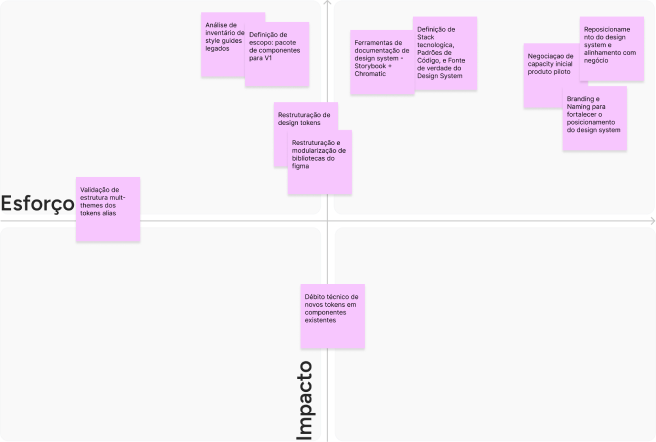
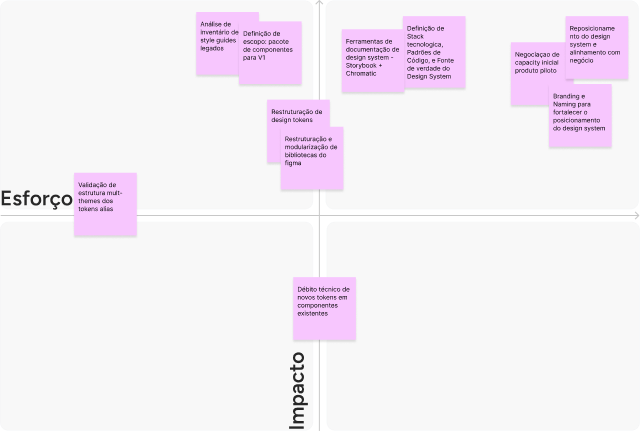
Refine Dom DS case typography and layout against Figma

diff --git a/assets/css/case.css b/assets/css/case.css
@@ -7,32 +7,32 @@ body,h1,h2,h3,p,figure,dl,dd{margin:0}
 body{font-size:1rem;line-height:1.55}
 a{color:inherit;text-underline-offset:.25em}
 a:hover{text-decoration:underline}
-a:focus-visible,button:focus-visible{outline:2px solid currentColor;outline-offset:5px}
+a:focus-visible,button:focus-visible{outline:2px solid var(--case-accent);outline-offset:5px}
 img{display:block;max-width:100%;height:auto}
 button{font:inherit}
 .container{width:100%;max-width:90rem;margin-inline:auto;padding-inline:var(--case-gutter)}
 .mono,.eyebrow,dt,.case-header,.case-footer{font-family:'Geist Mono',monospace;font-weight:500;text-transform:uppercase}
-.eyebrow{font-size:.6875rem;line-height:1.3;color:var(--case-muted);letter-spacing:.04em}
-.dark{background:var(--case-ink);color:#fff}
-.skip-link{position:fixed;z-index:10;top:1rem;left:1rem;padding:.75rem 1rem;background:#fff;color:#0d0d0b;transform:translateY(-200%)}
+.eyebrow{font-size:.6875rem;line-height:.875rem;color:var(--case-muted);letter-spacing:0}
+.dark{background:var(--case-ink);color:#faf8f4}
+.skip-link{position:fixed;z-index:10;top:1rem;left:1rem;padding:.75rem 1rem;background:var(--case-ink);color:var(--case-paper);transform:translateY(-200%)}
 .skip-link:focus{transform:translateY(0)}
 .case-header .header-inner{min-height:6.0625rem;padding-block:1.75rem 1.5rem;display:flex;justify-content:space-between;align-items:center;gap:2rem;position:relative}
 .header-inner::after{content:'';position:absolute;bottom:0;left:var(--case-gutter);right:var(--case-gutter);height:1px;background:#272725}
-.signature{display:grid;gap:.3rem;text-decoration:none;font-size:.6875rem;line-height:1.3}
-.signature small{font-size:.5625rem;font-weight:500;color:#d3d3ce}
+.signature{display:grid;gap:.25rem;text-decoration:none;font-size:.6875rem;line-height:.875rem}
+.signature small{font-size:.5625rem;line-height:.75rem;font-weight:500;color:#faf8f4}
 .case-header nav{display:flex;gap:1.75rem;flex-wrap:wrap;font-size:.625rem;line-height:1.3}
 .case-header nav a{text-decoration:none}
 .case-hero{padding-block:4.5rem}
-.hero-meta{display:flex;justify-content:space-between;gap:1.5rem;font-size:.6875rem;line-height:1.5}
+.hero-meta{display:flex;justify-content:space-between;gap:1.5rem;font-size:.6875rem;line-height:.875rem;min-height:1.25rem;align-items:center}
 .hero-meta p:last-child{font-size:.625rem;text-align:right}
 .hero-title{display:grid;grid-template-columns:42.835% 1fr;align-items:start;padding-block:3rem 3.75rem;gap:0}
-.hero-title h1{font-size:4.75rem;line-height:1.053;font-weight:600;letter-spacing:-.045em}
-.hero-title>p{font-size:1.375rem;line-height:1.409;padding-top:.5rem}
+.hero-title h1{font-size:4.75rem;line-height:1.05263158;font-weight:600;}
+.hero-title>p{font-size:1.375rem;line-height:1.40909091;padding-top:.5rem}
 .case-facts{display:grid;grid-template-columns:repeat(4,minmax(0,1fr));gap:3.5rem;border-top:1px solid #272725;padding-top:2rem}
-dt{font-size:.5625rem;line-height:1.4;margin-bottom:.5rem;letter-spacing:.02em}
-.case-facts dd{font-size:.9375rem;line-height:1.466}
+dt{font-size:.5625rem;line-height:.75rem;margin-bottom:.5rem;letter-spacing:0}
+.case-facts dd{font-size:.9375rem;line-height:1.46666667}
 .section{padding-block:6rem}
-.section-title h2{font-size:1.75rem;line-height:1.214;font-weight:600;letter-spacing:-.025em;margin-top:1.25rem}
+.section-title h2{font-size:1.75rem;line-height:1.214285714;font-weight:600;margin-top:1.25rem}
 .context{display:grid;grid-template-columns:272fr 592fr 272fr;column-gap:3.5rem}
 .prose{color:var(--case-body);font-size:1.125rem;line-height:1.5}
 .prose p+p{margin-top:1.75rem}
@@ -54,7 +54,8 @@ dt{font-size:.5625rem;line-height:1.4;margin-bottom:.5rem;letter-spacing:.02em}
 .case-figure{min-width:0}
 .case-figure a{display:block;border-radius:.25rem}
 .case-figure img{width:100%}
-.board h3{font-size:1.75rem;font-weight:600;line-height:1.214;letter-spacing:-.025em;margin-bottom:2rem}
+.board .case-figure a,.prioritization .case-figure a{border-radius:.75rem}
+.board h3{font-size:1.75rem;font-weight:600;line-height:1.214;margin-bottom:2rem}
 .board+.board{margin-top:4rem}
 .prioritization{display:grid;grid-template-columns:272fr 272fr 656fr;gap:3.5rem;align-items:start}
 .prioritization>.section-title,.prioritization>.prose{padding-top:2rem}
@@ -65,12 +66,12 @@ dt{font-size:.5625rem;line-height:1.4;margin-bottom:.5rem;letter-spacing:.02em}
 .decision-list{list-style:none;padding:0;margin:0}
 .decision-row{display:grid;grid-template-columns:repeat(4,minmax(0,1fr));gap:3.5rem;border-top:1px solid #262626;padding-block:3rem 3.5rem}
 .decision-row .eyebrow{margin-bottom:1rem}
-.decision-row h3{font-size:1.5rem;line-height:1.25;font-weight:600;letter-spacing:-.02em}
+.decision-row h3{font-size:1.5rem;line-height:1.25;font-weight:600;}
 .decision-row>div>p:not(.eyebrow){font-size:1rem;line-height:1.5625}
 .consequence>p:not(.eyebrow){font-weight:600}
 .architecture{padding-block:4.5rem}
 .architecture-heading{display:grid;grid-template-columns:760fr 560fr;gap:2rem;align-items:start;margin-block:1.5rem 3rem}
-.architecture-heading h2{font-size:2.25rem;line-height:1.1667;font-weight:600;letter-spacing:-.025em}
+.architecture-heading h2{font-size:2.25rem;line-height:1.1667;font-weight:600;}
 .architecture-grid{display:grid;grid-template-columns:repeat(2,minmax(0,1fr));gap:2rem}
 .artifact-summary{display:grid;grid-template-columns:624fr 624fr;gap:4rem;align-items:start;margin-bottom:3rem}
 .artifact-facts>div+div{margin-top:1.5rem}
@@ -78,15 +79,15 @@ dt{font-size:.5625rem;line-height:1.4;margin-bottom:.5rem;letter-spacing:.02em}
 .artifact-facts dd{font-size:1rem;line-height:1.5625;color:var(--case-body)}
 .artifact-facts strong{font-weight:600}
 .applied>.case-figure+.case-figure{margin-top:5rem}
-.storybook{display:grid;grid-template-columns:640fr 584fr;gap:5.5rem;align-items:center;padding-block:2.5rem;margin-top:3rem}
-.storybook-caption h3{font-size:1.5rem;line-height:1.25;font-weight:600;letter-spacing:-.02em;margin-block:1.25rem}
+.storybook{display:grid;grid-template-columns:640fr 584fr;gap:5.5rem;align-items:start;padding-block:2.5rem;margin-top:3rem}
+.storybook-caption h3{font-size:1.5rem;line-height:1.25;font-weight:600;margin-block:1.25rem}
 .storybook-caption>p:last-child{color:var(--case-body);font-size:1rem;line-height:1.5625}
 .results .section{padding-block:4.5rem 6rem}
 .results .section-heading{margin-bottom:3.5rem}
 .results .section-heading>.prose{padding-top:0}
 .result-grid{display:grid;grid-template-columns:repeat(4,minmax(0,1fr));gap:3.5rem;border-top:1px solid #272725;padding-top:3rem}
 .result-grid>div{display:flex;flex-direction:column-reverse;justify-content:flex-end;gap:1rem}
-.result-grid dd{font-size:2.375rem;font-weight:500;line-height:1.1579;letter-spacing:-.035em}
+.result-grid dd{font-size:2.375rem;font-weight:600;line-height:1.15789474;color:#fbfbf8}
 .result-grid dt{max-width:30ch;margin:0}
 .executive{padding-block:4.5rem 6rem}
 .executive>.case-figure{margin-bottom:3rem}
@@ -107,16 +108,92 @@ dt{font-size:.5625rem;line-height:1.4;margin-bottom:.5rem;letter-spacing:.02em}
 .executive-details li{border-top:1px solid var(--case-rule);padding-block:1rem;font-size:1rem;line-height:1.5625;color:var(--case-body)}
 .reflection{display:grid;grid-template-columns:272fr 592fr 272fr;gap:3.5rem}
 .contact-content{display:grid;grid-template-columns:880fr 320fr;gap:7rem;padding-block:4.5rem 3.5rem}
-.contact h2{font-size:4rem;line-height:1.1875;font-weight:600;letter-spacing:-.035em;margin-block:1.25rem}
+.contact h2{font-size:4.75rem;line-height:1;font-weight:600;margin-block:1.375rem;color:#fbfbf8}
 .contact h2 a{text-decoration:none}
 .contact h2 a:hover{text-decoration:underline;text-decoration-thickness:2px}
-.contact-description{font-size:1.125rem;line-height:1.5;max-width:39rem;color:#e6e6df}
+.contact-description{font-size:1.125rem;line-height:1.5;max-width:40.625rem;color:#b8b8ad}
 .contact-links{padding-top:2.5rem}
 .contact-links>a{display:block;font-family:'Geist Mono',monospace;font-size:.6875rem;text-transform:uppercase;text-decoration:none;width:fit-content;margin-top:1.5rem}
 .case-footer{display:flex;justify-content:space-between;gap:2rem;padding-block:1.5rem 2rem;border-top:1px solid #272725;font-size:.625rem;line-height:1.5;color:#d3d3ce}
 .case-footer nav{display:flex;flex-wrap:wrap;gap:.75rem}
 .case-footer a{text-decoration:none}
 .case-footer a:hover,.contact-links>a:hover,.case-header nav a:hover{text-decoration:underline}
+
+/* Align the desktop reading grid to the 1440px Figma frame. */
+@media(min-width:1101px){
+  .case-facts{gap:0}
+  .case-facts>div{padding-right:3.5rem}
+  .context,.reflection{grid-template-columns:25% 50% 25%;gap:0;align-items:start}
+  .context{min-height:32.3125rem}
+  .context>.section-title,.reflection>.section-title{padding-right:3.5rem}
+  .context>.prose,.reflection>.prose{max-width:37rem}
+  .context>.prose p+p{width:calc(100% + 1.8125rem)}
+  .context-notes{padding: .25rem 0 0}
+  .context-notes dt{margin-bottom:.375rem}
+  .context-notes div+div{margin-top:2rem}
+  .section-heading{grid-template-columns:50% 50%;gap:0}
+  .section-heading>.section-title{max-width:26.25rem}
+  .section-heading>.prose{max-width:none}
+  .discovery{padding-block:7.0625rem 10.4375rem}
+  .discovery .section-heading{grid-template-columns:25% 75%;margin-bottom:2.5rem}
+  .discovery .section-heading>.prose{font-size:1rem;line-height:1.5625;padding-top:2.40625rem;max-width:57.5625rem}
+  .board h3{margin-bottom:2.5rem;text-transform:lowercase}
+  .board+.board{margin-top:2.5rem}
+  .prioritization{grid-template-columns:25% 25% 50%;gap:0;padding-block:4.5625rem 4rem;min-height:35.5625rem}
+  .prioritization>.section-title{padding:0 3.5rem 0 0}
+  .prioritization>.prose{padding:2.125rem 3.5rem 0 0;font-size:1rem;line-height:1.5625}
+  .prioritization>.case-figure{width:97.5277%}
+  .decisions .section{padding-block:4.5625rem 6rem}
+  .decisions .section-heading{margin-bottom:4rem}
+  .decisions .section-heading>.prose{max-width:32.6875rem}
+  .decision-row{gap:0}
+  .decision-row>div{padding-right:3.5rem}
+  .decision-row .eyebrow{font-size:.5625rem;line-height:.75rem;margin-bottom:.75rem}
+  .decision-title .eyebrow{font-size:.625rem;line-height:.875rem;margin-bottom:.625rem}
+  .decisions .eyebrow{color:#f8f8f8}
+  .architecture{padding-block:4rem 3rem}
+  .architecture-heading{grid-template-columns:57.317073% 42.682927%;gap:0;margin-block:1.25rem 1.125rem}
+  .architecture-heading .prose{padding-top:.25rem}
+  .artifacts{padding-top:4.5625rem}
+  .artifacts .section-heading{margin-bottom:3.9375rem}
+  .artifact-summary{grid-template-columns:624fr 656fr;gap:2rem;margin-bottom:4rem}
+  .artifact-facts>div+div{margin-top:1.375rem}
+  .applied{padding-top:7.0625rem}
+  .applied .section-heading{margin-bottom:6.5rem}
+  .applied>.case-figure+.case-figure{margin-top:2.5rem}
+  .storybook{margin-top:2.5rem}
+  .storybook>.case-figure{border:1px dashed #c9c9c0;background:#f2f2ee}
+  .results .section{padding-block:6rem}
+  .results .section-heading{grid-template-columns:25% 75%;min-height:9.0625rem;margin-bottom:0}
+  .results .section-heading>.prose{max-width:42.6875rem;color:#b8b8ad}
+  .results .eyebrow,.results dt,.contact .eyebrow{color:#a3a399}
+  .result-grid{gap:0;padding-top:3.5rem}
+  .result-grid>div{gap:1.5rem}
+  .result-grid dt{max-width:17rem;line-height:.875rem}
+  .executive{padding-top:7.0625rem}
+  .executive .section-heading{margin-bottom:5.5rem}
+  .executive>.case-figure{margin-bottom:2.5rem}
+  .timeline{min-height:16.875rem;padding:1.6875rem 2.1875rem 2rem 1.9375rem;margin-bottom:6rem}
+  .timeline>.eyebrow,.executive-details h3{font-size:.5625rem;line-height:.75rem}
+  .timeline ol{gap:1rem;margin-top:2.125rem}
+  .timeline li{padding-right:0}
+  .timeline li::before{left:50%;right:calc(-50% - 1rem);top:1.625rem}
+  .timeline li::after{left:calc(50% - .21875rem);top:1.40625rem}
+  .timeline li.achieved::after{width:.625rem;height:.625rem;left:calc(50% - .3125rem);top:1.3125rem}
+  .timeline-year{font-size:.5625rem;line-height:.75rem;min-height:.75rem}
+  .timeline-text{padding-top:2.375rem;line-height:1.46153846}
+  .timeline-status{margin-top:.5rem;line-height:.75rem}
+  .executive-details ul{margin-top:.875rem}
+  .executive-details li{padding-block:.8125rem 1rem}
+  .executive-details li:last-child{padding-bottom:0}
+  .reflection{padding-top:4.5625rem}
+  .contact-content{grid-template-columns:880fr 300fr;gap:8.25rem;padding-block:4rem 3.375rem}
+  .contact-links{padding-top:0}
+  .contact-links .eyebrow{font-size:.5625rem;line-height:.75rem}
+  .contact-links>a{margin-top:.625rem;line-height:.875rem}
+  .case-footer{padding-block:3.875rem 2.75rem;font-size:.5625rem;line-height:.75rem;color:#a3a399}
+}
+
 @media(max-width:1100px){
   .section-heading,.decision-row,.prioritization,.reflection{gap:2rem}
   .section-heading{grid-template-columns:1fr 2fr}

diff --git a/projetos/thomson-reuters/index.html b/projetos/thomson-reuters/index.html
@@ -52,7 +52,7 @@
     <section class="container section ruled prioritization" aria-labelledby="priority-title">
       <div class="section-title"><p class="eyebrow">Priorização</p><h2 id="priority-title">O que entrou<br>no quarter.</h2></div>
       <p class="prose">A matriz de esforço × impacto foi o instrumento que sustentou a escolha de reconstruir a base em vez de continuar entregando componente.</p>
-      <figure class="case-figure "><a href="../../assets/images/thomson-reuters/priorizacao.png" target="_blank" rel="noopener noreferrer" aria-label="Matriz de esforço e impacto utilizada para priorizar o trabalho de fundação do Dom DS. Abrir imagem em tamanho original"><img src="../../assets/images/thomson-reuters/priorizacao.png" width="656" height="442" alt="Matriz de esforço e impacto utilizada para priorizar o trabalho de fundação do Dom DS" loading="lazy" decoding="async"></a></figure>
+      <figure class="case-figure "><a href="../../assets/images/thomson-reuters/priorizacao.png" target="_blank" rel="noopener noreferrer" aria-label="Matriz de esforço e impacto utilizada para priorizar o trabalho de fundação do Dom DS. Abrir imagem em tamanho original"><img src="../../assets/images/thomson-reuters/priorizacao.png" width="640" height="432" alt="Matriz de esforço e impacto utilizada para priorizar o trabalho de fundação do Dom DS" loading="lazy" decoding="async"></a></figure>
     </section>
     <section class="decisions dark" aria-labelledby="decisions-title">
       <div class="container section">
@@ -61,25 +61,25 @@
           <li class="decision-row">
             <div class="decision-title"><p class="eyebrow">01</p><h3>Diagnosticar em três camadas</h3></div>
             <div><p class="eyebrow">Decisão</p><p>Antes de propor solução, mapear o problema em operacional, tático e estratégico, separando bagunça de biblioteca de posicionamento institucional.</p></div>
-            <div><p class="eyebrow">O que ficou de fora</p><p>A entrega rápida de componentes, que teria comprado paz no curto prazo e mantido a base frágil.</p></div>
+            <div><p class="eyebrow">O que foi cortado</p><p>A entrega rápida de componentes, que teria comprado paz no curto prazo e mantido a base frágil.</p></div>
             <div class="consequence"><p class="eyebrow">Consequência</p><p>O reposicionamento do design system virou item de trabalho explícito, no mesmo nível da reestruturação técnica.</p></div>
           </li>
           <li class="decision-row">
             <div class="decision-title"><p class="eyebrow">02</p><h3>Fundação antes de catálogo</h3></div>
             <div><p class="eyebrow">Decisão</p><p>Montar uma matriz de esforço × impacto para o quarter e priorizar fundação: inventário dos style guides legados, escopo do pacote V1, stack, padrões de código e fonte de verdade.</p></div>
-            <div><p class="eyebrow">O que ficou de fora</p><p>Continuar produzindo componentes sobre a base existente. A biblioteca legada Design System TR foi descontinuada, não mantida.</p></div>
+            <div><p class="eyebrow">O que foi cortado</p><p>Continuar produzindo componentes sobre a base existente. A biblioteca legada Design System TR foi descontinuada, não mantida.</p></div>
             <div class="consequence"><p class="eyebrow">Consequência</p><p>As bibliotecas foram remodularizadas em cinco: Design Tokens, Assets, Core Web, Core App e Helpers.</p></div>
           </li>
           <li class="decision-row">
             <div class="decision-title"><p class="eyebrow">03</p><h3>Stack agnóstica a framework</h3></div>
             <div><p class="eyebrow">Decisão</p><p>Adotar Web Components com Stencil para os produtos Angular e React, e Core App em React Native. Storybook com Chromatic como documentação.</p></div>
-            <div><p class="eyebrow">O que ficou de fora</p><p>Uma biblioteca React nativa: mais rápida de escrever e incapaz de atender Angular sem duplicar o trabalho.</p></div>
+            <div><p class="eyebrow">O que foi cortado</p><p>Uma biblioteca React nativa: mais rápida de escrever e incapaz de atender Angular sem duplicar o trabalho.</p></div>
             <div class="consequence"><p class="eyebrow">Consequência</p><p>O Core Web saiu de 45 para 67 componentes entre janeiro e junho de 2026, alta de 48%, com 45 em homologação e 22 em desenvolvimento.</p></div>
           </li>
           <li class="decision-row">
             <div class="decision-title"><p class="eyebrow">04</p><h3>Provar em produto, não em deck</h3></div>
             <div><p class="eyebrow">Decisão</p><p>Negociar capacity para um produto piloto e entregar a área de Certificados Digitais com o sistema aplicado, em modo claro e escuro.</p></div>
-            <div><p class="eyebrow">O que ficou de fora</p><p>A adoção ampla no primeiro ciclo. Um produto pilotado vale mais do que dezoito convencidos por apresentação.</p></div>
+            <div><p class="eyebrow">O que foi cortado</p><p>A adoção ampla no primeiro ciclo. Um produto pilotado vale mais do que dezoito convencidos por apresentação.</p></div>
             <div class="consequence"><p class="eyebrow">Consequência</p><p>O balanço de Q1 e Q2 sustentou o pleito de recursos, o assento na PI Planning do Q3 e um sponsor para o Dom DS.</p></div>
           </li>
         </ol>
@@ -113,7 +113,7 @@
       <figure class="case-figure "><a href="../../assets/images/thomson-reuters/piloto-claro-escuro.png" target="_blank" rel="noopener noreferrer" aria-label="Telas do piloto de Certificados Digitais nos modos claro e escuro. Abrir imagem em tamanho original"><img src="../../assets/images/thomson-reuters/piloto-claro-escuro.png" width="1319" height="632" alt="Telas do piloto de Certificados Digitais nos modos claro e escuro" loading="lazy" decoding="async"></a></figure>
       <div class="storybook">
         <figure class="case-figure "><a href="../../assets/images/thomson-reuters/storybook.png" target="_blank" rel="noopener noreferrer" aria-label="Storybook do Dom DS com a documentação e a visualização de componentes. Abrir imagem em tamanho original"><img src="../../assets/images/thomson-reuters/storybook.png" width="638" height="444" alt="Storybook do Dom DS com a documentação e a visualização de componentes" loading="lazy" decoding="async"></a></figure>
-        <div class="storybook-caption"><p class="eyebrow">Documentação em código</p><h3>O sistema fora do Figma.</h3><p>O Storybook documenta os componentes e permite consultar sua implementação. Enquanto as métricas de engenharia seguem em coleta, este registro mostra o sistema também em código.</p></div>
+        <div class="storybook-caption"><p>O Storybook documenta os componentes e permite consultar sua implementação. Enquanto as métricas de engenharia seguem em coleta, este registro mostra o sistema também em código.</p></div>
       </div>
     </section>
     <section class="results dark" aria-labelledby="results-title">

diff --git a/README.md b/README.md
@@ -45,6 +45,7 @@ portfolio/
 - **Sobre mim:** edite `sobre-mim.html` e `assets/css/styles.css`. A página usa a foto exportada do Figma e fontes Geist locais; funciona sem conexão. Referência: frame `82:2`, consultado em 8 de setembro de 2026.
 - **Dom DS · Thomson Reuters:** edite `projetos/thomson-reuters/index.html` e `assets/css/case.css`. Referência: frame `193:3` do arquivo Figma `TvLJ3bRAY0jKiQPjm8BL2R`, consultado em 9 de setembro de 2026. O caso usa fontes locais, textos em HTML, timeline responsiva e 13 imagens que podem ser abertas em tamanho original. O número de componentes em homologação foi confirmado como 45. O Core Web usa Stencil para Angular e React; Core App usa React Native. A legenda editorial provisória do Storybook foi adaptada para o leitor do caso.
 - **Assets do caso:** a origem de cada exportação está em `assets/images/thomson-reuters/manifest.json`. A prancha de tokens foi exportada com seus limites completos para evitar o corte causado pelo frame da seção no Figma.
+- **Revisão visual do caso:** grade, tipografia, espaçamentos, resultados, timeline e contato conferidos contra o frame de 1440 px. A matriz de priorização usa a exportação atual do node `251:19969`. A adaptação para celular foi conferida em uma área útil de 375 px, sem transbordamento horizontal.
 - **Início, projetos e Modo:** edite os respectivos HTMLs, `assets/css/tokens.css` e `assets/css/base.css`. Início e Modo ainda têm conteúdo provisório; essas páginas carregam Geist pelo Google Fonts.
 - **Interações compartilhadas:** todas as páginas carregam `assets/css/interactions.css` para a seleção de texto invertida. Áreas escuras usam `.dark` ou `data-surface="dark"`. Início, manutenção, índice de projetos e casos carregam `assets/js/cursor.js` e habilitam as linhas com `data-cursor-guides` no `body`. O efeito usa o mouse, respeita movimento reduzido e não captura cliques ou seleção de texto.
 - **Manutenção:** edite `manutencao.html` e `assets/css/manutencao.css`. A página usa Google Fonts e mantém a configuração `noindex, nofollow`.
